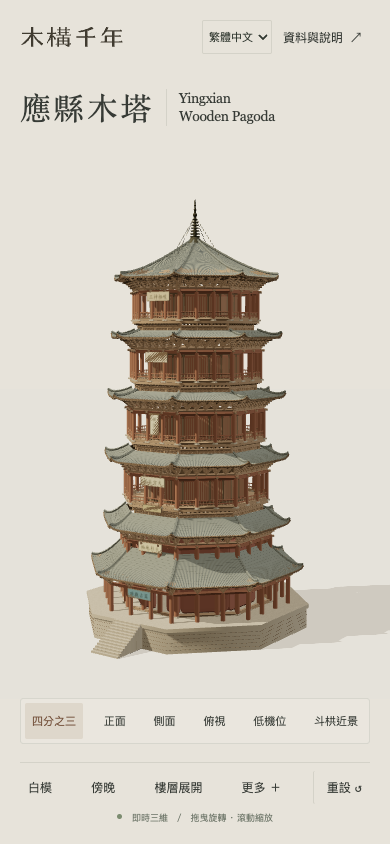
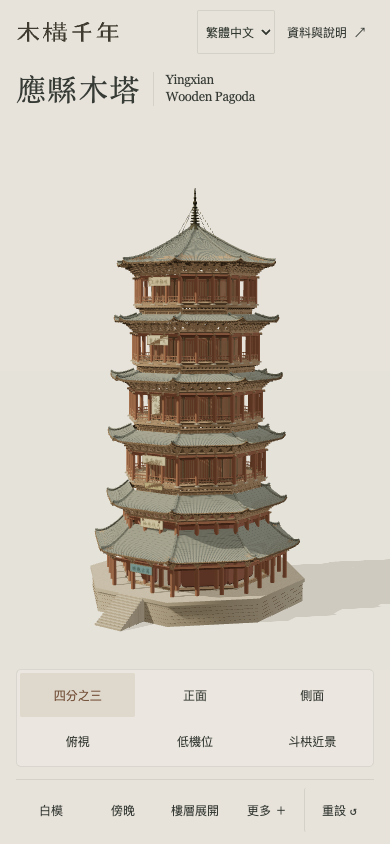
Improve mobile exhibition layout and touch controls

diff --git a/src/mobile.css b/src/mobile.css
@@ -1,0 +1,35 @@
+/* Compact exhibition labels and comfortable touch controls. */
+@media(max-width:760px){
+ :root{--page-gutter:16px;--mobile-bottom:calc(12px + env(safe-area-inset-bottom,0px))}
+ #app{position:relative;height:100dvh;overflow:hidden}
+ .masthead{top:calc(10px + env(safe-area-inset-top,0px));min-height:44px;gap:12px}
+ .masthead .brand{min-height:44px;justify-content:center}
+ .header-actions{gap:4px}
+ #language{min-height:44px;max-width:100px;font-size:12px;padding:8px 4px}
+ .header-actions .text-button,body[data-language=en] .header-actions .text-button{min-height:44px;font-size:12px;padding:8px}
+ .caption{top:calc(70px + env(safe-area-inset-top,0px));align-items:center;gap:12px}
+ .caption h1{font-size:30px;letter-spacing:.04em}
+ .caption .english{font-size:13px;line-height:1.3}
+ body[data-language=en] .caption h1{font-size:27px;max-width:100%;line-height:1.15}
+ #stage{top:calc(119px + env(safe-area-inset-top,0px));bottom:calc(174px + env(safe-area-inset-bottom,0px))}
+ .view-nav{left:var(--page-gutter);right:var(--page-gutter);bottom:calc(65px + var(--mobile-bottom));display:grid;grid-template-columns:repeat(3,minmax(0,1fr));gap:2px;padding:3px;border-radius:5px;background:#ebe7dfe8}
+ .view-nav button,body[data-language=en] .view-nav button{font-size:12px;min-height:44px;padding:8px 4px}
+ .bottom{bottom:var(--mobile-bottom);gap:0;padding-top:8px}
+ .bottom .hint{display:none}
+ .tools{display:grid;grid-template-columns:repeat(5,minmax(0,1fr));gap:2px}
+ .tools button,.tools #reset{min-height:44px;padding:8px 2px;font-size:12px;margin:0}
+ .settings{left:var(--page-gutter);right:var(--page-gutter);width:auto;bottom:calc(65px + var(--mobile-bottom));max-height:calc(100dvh - 155px - env(safe-area-inset-top,0px) - env(safe-area-inset-bottom,0px));overflow-y:auto;overscroll-behavior:contain;border-radius:6px;padding:10px;z-index:5}
+ .settings button,.settings select{min-height:44px}
+ #restore{min-height:44px;bottom:var(--mobile-bottom)}
+ dialog{max-height:calc(100dvh - 40px - env(safe-area-inset-top,0px) - env(safe-area-inset-bottom,0px));padding:20px;overscroll-behavior:contain}
+ .dialog-head{position:sticky;top:-20px;background:#f2eee6;z-index:1;padding:8px 0}
+ .dialog-head button{min-height:44px}
+ .separation,#notice{top:calc(123px + env(safe-area-inset-top,0px))}
+ body.ui-hidden #stage{top:0;bottom:0}
+}
+@media(max-width:360px){
+ .masthead .brand,body[data-language=en] .masthead .brand{width:88px}
+ .header-actions .text-button,body[data-language=en] .header-actions .text-button{font-size:11px;padding:6px 3px}
+ .caption h1{font-size:28px}
+ .caption .english{font-size:12px}
+}

diff --git a/src/main.ts b/src/main.ts
@@ -3,6 +3,7 @@ import * as T from 'three';
 import {OrbitControls} from 'three/addons/controls/OrbitControls.js';
 import {ARCH} from './config';import {materials} from './materials';import {buildPagoda} from './geometry';import {environment} from './environment';import {cameras, type View} from './camera';import {exportImage,download} from './export';import {mount} from './ui';import './style.css';
 import './layout.css';
+import './mobile.css';
 mount();bindLanguage();await new Promise<void>(resolve=>requestAnimationFrame(()=>requestAnimationFrame(()=>resolve())));const $=<E extends HTMLElement=HTMLElement>(id:string)=>document.getElementById(id) as E;
 const state={clay:new URLSearchParams(location.search).has('clay'),evening:false,explode:false,orbit:false,hidden:false,quality:innerWidth<760?'low':'high'};
 const reduced=matchMedia('(prefers-reduced-motion: reduce)');
